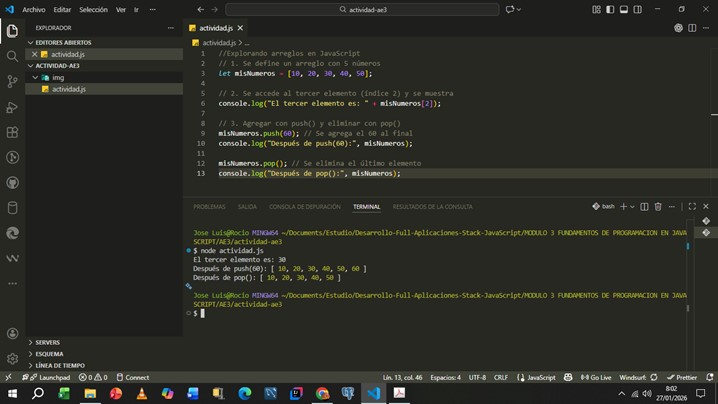
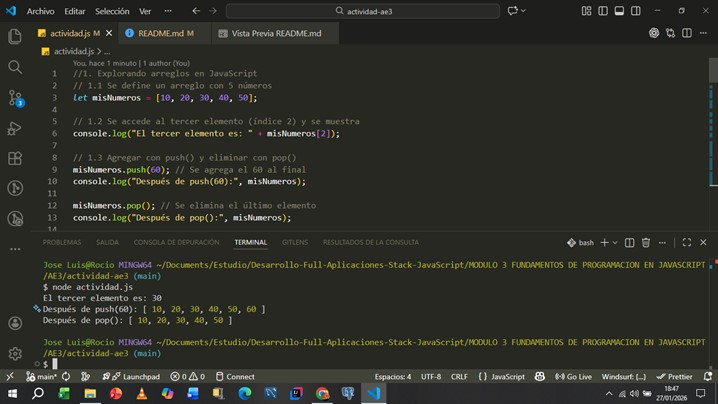
Cambios finales en imagenes en README

diff --git a/actividad.js b/actividad.js
@@ -14,64 +14,64 @@ console.log("Después de pop():", misNumeros);
 
 
 //2. Iterando sobre un arreglo
-let valores = [5, 10, 15, 20];
+// let valores = [5, 10, 15, 20];
 
-// Ciclo for tradicional
-console.log("Iteración con ciclo for:");
-for (let i = 0; i < valores.length; i++) {
-    console.log("Número:", valores[i]);
-}
+// // Ciclo for tradicional
+// console.log("Iteración con ciclo for:");
+// for (let i = 0; i < valores.length; i++) {
+//     console.log("Número:", valores[i]);
+// }
 
-// Método forEach()
-console.log("Iteración con forEach():");
-valores.forEach(num => {
-    console.log("Número:", num);
-});
-
-
-//3. Operaciones con Arreglos
-let listaA = [1, 2, 3, 11, 15];
-let listaB = [3, 4, 5, 20];
-
-// Se concatenan dos arreglos
-let unionConcatenada = listaA.concat(listaB);
-console.log("Arreglos concatenados:", unionConcatenada);
-
-// Se encuentran la diferencia (elementos en listaA que NO están en listaB)
-let diferencia = listaA.filter(n => !listaB.includes(n));
-console.log("Diferencia (A - B):", diferencia);
-
-// Filtro: Solo números mayores a 10
-let mayoresDiez = unionConcatenada.filter(n => n > 10);
-console.log("Números mayores a 10:", mayoresDiez);
+// // Método forEach()
+// console.log("Iteración con forEach():");
+// valores.forEach(num => {
+//     console.log("Número:", num);
+// });
 
 
-//4. Aplicando Ciclos Iterativos
-// Ciclo while: Suma del 1 al 10
-let suma = 0;
-let contador = 1;
-while (contador <= 10) {
-    suma += contador;
-    contador++;
-}
-console.log("Resultado de la suma 1-10:", suma);
+// //3. Operaciones con Arreglos
+// let listaA = [1, 2, 3, 11, 15];
+// let listaB = [3, 4, 5, 20];
 
-// Ciclo do/while: Imprimir del 5 al 15
-let numDo = 5;
-console.log("Cuenta del 5 al 15:");
-do {
-    console.log(numDo);
-    numDo++;
-} while (numDo <= 15);
+// // Se concatenan dos arreglos
+// let unionConcatenada = listaA.concat(listaB);
+// console.log("Arreglos concatenados:", unionConcatenada);
 
-// For anidado: Tabla de multiplicar del 1 al 5
-console.log("Tablas de multiplicar:");
-for (let i = 1; i <= 5; i++) {
-    console.log(`--- Tabla del ${i} ---`);
-    for (let j = 1; j <= 10; j++) {
-        console.log(`${i} x ${j} = ${i * j}`);
-    }
-}
+// // Se encuentran la diferencia (elementos en listaA que NO están en listaB)
+// let diferencia = listaA.filter(n => !listaB.includes(n));
+// console.log("Diferencia (A - B):", diferencia);
+
+// // Filtro: Solo números mayores a 10
+// let mayoresDiez = unionConcatenada.filter(n => n > 10);
+// console.log("Números mayores a 10:", mayoresDiez);
+
+
+// //4. Aplicando Ciclos Iterativos
+// // Ciclo while: Suma del 1 al 10
+// let suma = 0;
+// let contador = 1;
+// while (contador <= 10) {
+//     suma += contador;
+//     contador++;
+// }
+// console.log("Resultado de la suma 1-10:", suma);
+
+// // Ciclo do/while: Imprimir del 5 al 15
+// let numDo = 5;
+// console.log("Cuenta del 5 al 15:");
+// do {
+//     console.log(numDo);
+//     numDo++;
+// } while (numDo <= 15);
+
+// // For anidado: Tabla de multiplicar del 1 al 5
+// console.log("Tablas de multiplicar:");
+// for (let i = 1; i <= 5; i++) {
+//     console.log(`--- Tabla del ${i} ---`);
+//     for (let j = 1; j <= 10; j++) {
+//         console.log(`${i} x ${j} = ${i * j}`);
+//     }
+// }
 
 
 // ¿Por qué es importante seguir estas prácticas?

diff --git a/README.md b/README.md
@@ -6,21 +6,32 @@ Este repositorio contiene la resolución práctica de la actividad AE-3 sobre ar
 
 Evidencias de Desarrollo
 
-1. Explorando Arreglos
+1.Explorando Arreglos
 Definición de un arreglo de 5 elementos, acceso al tercer elemento y manipulación con push() y pop().
-![Punto 1](.img/1.Explorando-arreglos-en-JavaScriptr.jpg)
 
-2. Iterando sobre un Arreglo
+![Punto 1](.\img\1.Explorando-arreglos-en-JavaScriptr.jpg)
+
+2.Iterando sobre un Arreglo
 Comparación de recorrido de elementos usando un ciclo for tradicional y el método forEach().
 
-3. Operaciones con Arreglos
+![Punto 2](.\img\2.Iterando-sobre-arreglo.jpg)
+
+3.Operaciones con Arreglos
 Lógica para concatenar arreglos, encontrar diferencias y filtrar números mayores a 10.
 
-4. Aplicando Ciclos Iterativos - Parte 1
+![Punto 3](.\img\3.Operaciones-con-arreglos.jpg)
+
+4.Aplicando Ciclos Iterativos - Parte 1
 Uso de while para sumar del 1 al 10 y do/while para imprimir del 5 al 15.
 
-5. Aplicando Ciclos Iterativos - Parte 2
+![Punto 4](.\img\4.Aplicando-Ciclos-Iterativos-parte-1.jpg)
+
+5.Aplicando Ciclos Iterativos - Parte 2
 Generación de tablas de multiplicar del 1 al 5 mediante ciclos for anidados.
 
-6. Buenas Prácticas y Código Limpio
+![Punto 5](.\img\4.Aplicando-Ciclos-Iterativos-parte-2.jpg)
+
+6.Buenas Prácticas y Código Limpio
 Justificación sobre la importancia de la legibilidad, indentación y nombres descriptivos en el código.
+
+![Punto 6](.\img\5.Buenas-Prácticas.jpg)
